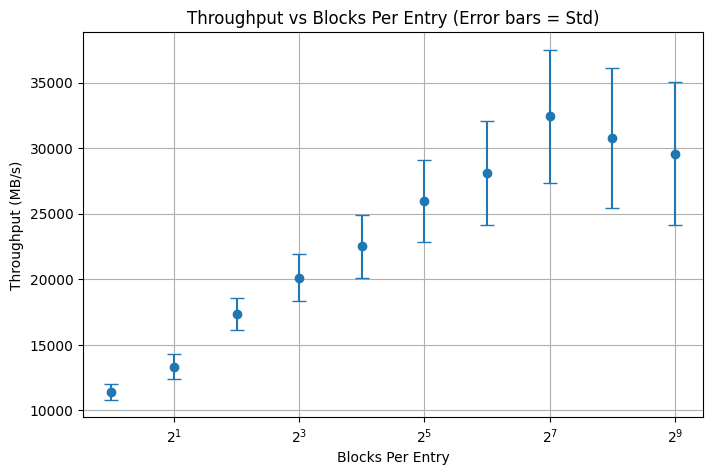
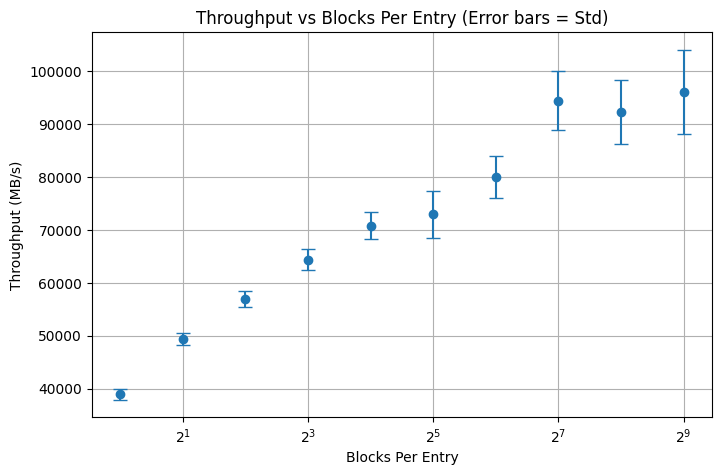
Added Experiments

diff --git a/src/pir_server.c b/src/pir_server.c
@@ -9,11 +9,12 @@
 #include <unistd.h>
 #include <string.h>
 #include <time.h>
+#include <stdbool.h>
 #include "pir_server.h"
 
 #define min(a, b) ((a) < (b) ? (a) : (b))
 
-pir_server_t *pir_server_alloc(uint8_t *db, size_t db_size, size_t blocks_per_entry)
+pir_server_t *pir_server_alloc(uint8_t *db, size_t db_size, size_t blocks_per_entry, bool prefetch_cache_lines)
 {
     pir_server_t *server = malloc(sizeof(pir_server_t));
     if (!server) {
@@ -24,10 +25,11 @@ pir_server_t *pir_server_alloc(uint8_t *db, size_t db_size, size_t blocks_per_en
     server->db_size_bits = db_size * 8;
     server->blocks_per_entry = blocks_per_entry;
     server->query_size = sqrt(db_size / (BLOCK_SIZE * blocks_per_entry));
+    server->use_prefetching = prefetch_cache_lines;
     return server;
 }
 
-void process_slices(const uint8_t *db, size_t bit_len, size_t block_per_entry, size_t query_size, uint8_t *q1, uint8_t *q2, __m256i *results) {
+void process_slices(const uint8_t *db, size_t bit_len, size_t block_per_entry, size_t query_size, uint8_t *q1, uint8_t *q2, __m256i *results, bool prefetch_cache_lines) {
     size_t bytes = (bit_len + 7) / 8;
 
     // Precompute active indices for q1, q2 to reduce branch misprediction
@@ -55,7 +57,7 @@ void process_slices(const uint8_t *db, size_t bit_len, size_t block_per_entry, s
             size_t base_index = (i1 * query_size + i2) * (BLOCK_SIZE * block_per_entry);
             if (base_index + (BLOCK_SIZE * block_per_entry) > bytes)
                 continue;
-            if (a2 + 1 < n2)
+            if (a2 + 1 < n2 && prefetch_cache_lines)
             {
                 size_t prefetch_base_index = (i1 * query_size + active_i2[i2 + 1]) * (BLOCK_SIZE * block_per_entry);
                 for (size_t cache_line = 0; cache_line < prefetch_lines_count; cache_line++)
@@ -78,7 +80,7 @@ __m256i *pir_answer(pir_server_t *self, uint8_t *q1, uint8_t *q2) {
         perror("Error allocating memory for results");
         return NULL;
     }
-    process_slices(self->db, self->db_size_bits, self->blocks_per_entry, self->query_size, q1, q2, result);
+    process_slices(self->db, self->db_size_bits, self->blocks_per_entry, self->query_size, q1, q2, result, self->use_prefetching);
 
     return result;
 }

diff --git a/src/main.c b/src/main.c
@@ -9,6 +9,7 @@
 #include <unistd.h>
 #include <string.h>
 #include <time.h>
+#include <stdbool.h>
 #include "pir_client.h"
 #include "pir_server.h"
 
@@ -108,11 +109,12 @@ double std_throughput(double *throughputs, int count) {
 }
 
 int main(int argc, char *argv[]) {
-    if (argc != 4) {
-        printf("Usage: ./pir_server <DB_SIZE> <BLOCKS_PER_ENTRY> <SAMPLES>\n"
+    if (argc != 4 && argc != 5) {
+        printf("Usage: ./pir_server <DB_SIZE> <BLOCKS_PER_ENTRY> <SAMPLES> <PREFETCH>\n"
                "- DB_SIZE               The LOG on the tested DB Bytes size\n"
                "- BLOCKS_PER_ENTRY      The number of blocks per entry, each block is 128 bits\n"
                "- SAMPLES               The number of samples to collect\n"
+               "- PREFETCH              Whether to use prefetching (1) or not (0) [default=1]\n"
                "\nExample: create a database with 2^30 bytes, 128 blocks per entry and run 100 experiments to sample throughput\n"
                "./pir_server 30 128 100\n");
         return 1;
@@ -120,6 +122,11 @@ int main(int argc, char *argv[]) {
     int log_db_size = atoi(argv[1]);
     int blocks_per_entry = atoi(argv[2]);
     int samples = atoi(argv[3]);
+    bool use_prefetching = true;
+    if (argc == 5) {
+        use_prefetching = atoi(argv[4]);
+    }
+    printf("Using prefetching: %s\n", use_prefetching ? "Yes" : "No");
     size_t file_size = 1UL << log_db_size;
     printf("Generating DB of size %zu bytes, blocks per entry: %d\n", file_size, blocks_per_entry);
     uint8_t *db = create_db(file_size);
@@ -127,7 +134,7 @@ int main(int argc, char *argv[]) {
         return 1;
     }
 
-    pir_server_t *server = pir_server_alloc(db, file_size, blocks_per_entry);
+    pir_server_t *server = pir_server_alloc(db, file_size, blocks_per_entry, use_prefetching);
     if (!server) {
         free(db);
         perror("Error allocating PIR server");

diff --git a/includes/pir_server.h b/includes/pir_server.h
@@ -3,6 +3,7 @@
 
 #include <immintrin.h>
 #include <stdint.h>
+#include <stdbool.h>
 
 #define BLOCK_SIZE (sizeof(__m256i))
 #define CACHE_LINE_SIZE (64)
@@ -13,9 +14,10 @@ typedef struct {
     size_t db_size_bits;
     size_t blocks_per_entry;
     size_t query_size;
+    bool use_prefetching;
 } pir_server_t;
 
-pir_server_t *pir_server_alloc(uint8_t *db, size_t db_size, size_t blocks_per_entry);
+pir_server_t *pir_server_alloc(uint8_t *db, size_t db_size, size_t blocks_per_entry, bool prefetch_cache_lines);
 __m256i *pir_answer(pir_server_t *self, uint8_t *q1, uint8_t *q2);
 
 #endif
